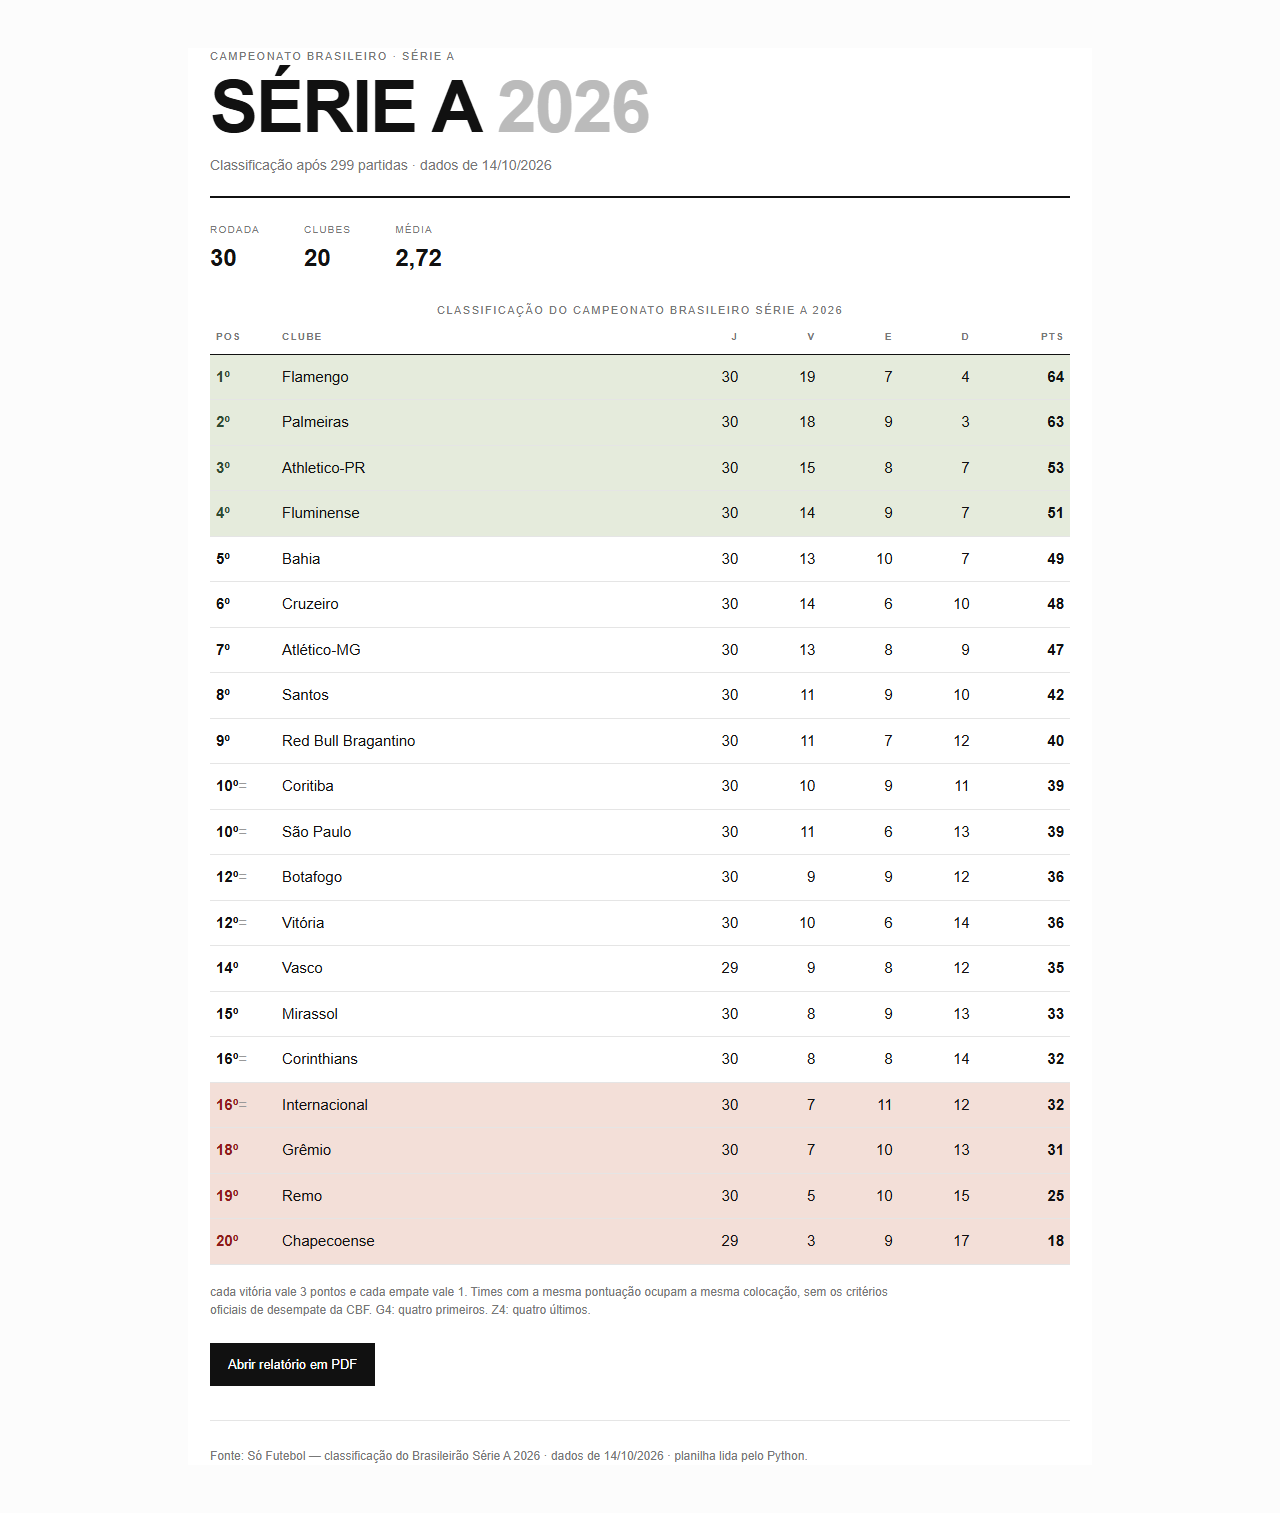
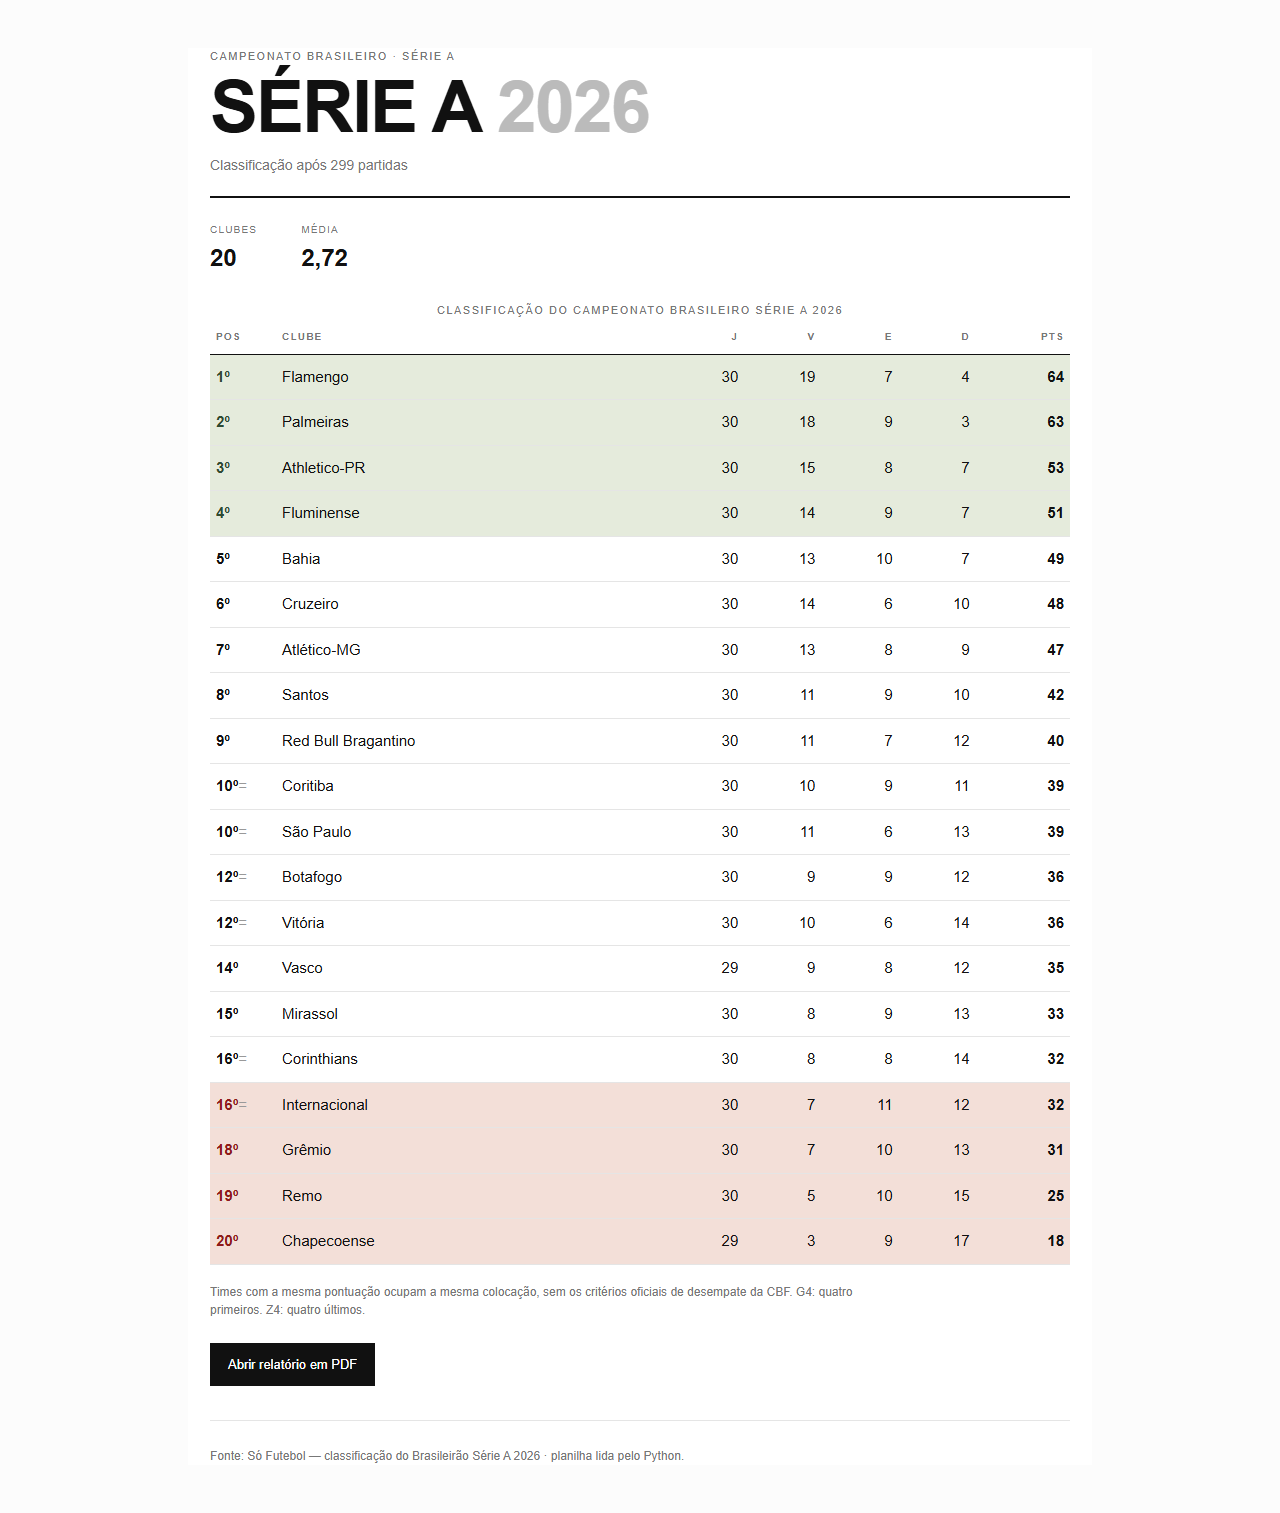
POOI 4bi: remove parsing de data e rodada

Changed region(s): [[0.1562, 0.8387, 0.6875, 0.8698], [0.2188, 0.1553, 0.2812, 0.1864], [0.3125, 0.1553, 0.3438, 0.1864]]

diff --git a/POOI/4bi/projeto/projeto.py b/POOI/4bi/projeto/projeto.py
@@ -21,28 +21,6 @@ from reportlab.pdfgen import canvas
 # 1) LEITURA DA PLANILHA E CÁLCULO
 # ===========================================================================
 
-def sem_acento(texto):
-    """Remove acentos para comparar cabeçalhos e nomes."""
-    texto = str(texto)
-    trocas = [
-        ('á', 'a'), ('à', 'a'), ('â', 'a'), ('ã', 'a'), ('ä', 'a'),
-        ('é', 'e'), ('è', 'e'), ('ê', 'e'), ('ë', 'e'),
-        ('í', 'i'), ('ì', 'i'), ('î', 'i'), ('ï', 'i'),
-        ('ó', 'o'), ('ò', 'o'), ('ô', 'o'), ('õ', 'o'), ('ö', 'o'),
-        ('ú', 'u'), ('ù', 'u'), ('û', 'u'), ('ü', 'u'),
-        ('ç', 'c'), ('ñ', 'n'),
-        ('Á', 'A'), ('À', 'A'), ('Â', 'A'), ('Ã', 'A'), ('Ä', 'A'),
-        ('É', 'E'), ('È', 'E'), ('Ê', 'E'), ('Ë', 'E'),
-        ('Í', 'I'), ('Ì', 'I'), ('Î', 'I'), ('Ï', 'I'),
-        ('Ó', 'O'), ('Ò', 'O'), ('Ô', 'O'), ('Õ', 'O'), ('Ö', 'O'),
-        ('Ú', 'U'), ('Ù', 'U'), ('Û', 'U'), ('Ü', 'U'),
-        ('Ç', 'C'), ('Ñ', 'N'),
-    ]
-    for antigo, novo in trocas:
-        texto = texto.replace(antigo, novo)
-    return texto
-
-
 def vazio(valor):
     """True quando a célula está vazia."""
     texto = str(valor).strip()
@@ -66,35 +44,6 @@ def numero(valor):
         return 0
 
 
-def pegar_data(texto):
-    """Procura uma data dd/mm/aaaa dentro de um texto."""
-    palavras = str(texto).split()
-    for palavra in palavras:
-        palavra = palavra.replace('.', '').replace(',', '').replace(';', '').replace(':', '').replace('(', '').replace(')', '').replace('[', '').replace(']', '')
-        if len(palavra) == 10 and palavra[2] == '/' and palavra[5] == '/':
-            if palavra[0:2].isnumeric() and palavra[3:5].isnumeric() and palavra[6:10].isnumeric():
-                return palavra
-    return ''
-
-
-def pegar_rodada(texto):
-    """Procura 'rodada 30' dentro de um texto."""
-    texto = sem_acento(str(texto)).upper()
-    posicao = texto.find('RODADA')
-    if posicao == -1:
-        return 0
-    i = posicao + 6
-    while i < len(texto) and not texto[i].isnumeric():
-        i += 1
-    numero_texto = ''
-    while i < len(texto) and texto[i].isnumeric():
-        numero_texto += texto[i]
-        i += 1
-    if numero_texto != '':
-        return int(numero_texto)
-    return 0
-
-
 def ler_planilha(caminho):
     """Lê o .xlsx e devolve os dados da classificação."""
     try:
@@ -116,7 +65,7 @@ def ler_planilha(caminho):
             normalizados = []
             for valor in valores:
                 if not vazio(valor):
-                    normalizados.append(sem_acento(valor).upper().strip())
+                    normalizados.append(str(valor).upper().strip())
 
             tem_time = False
             tem_jogos = False
@@ -136,16 +85,16 @@ def ler_planilha(caminho):
         colunas = {'time': -1, 'jogos': -1, 'vitorias': -1, 'empates': -1, 'derrotas': -1}
         for i in range(len(tabela.columns)):
             valor = tabela.iloc[linha_cabecalho, i]
-            nome = sem_acento(valor).upper().strip()
+            nome = str(valor).upper().strip()
             if 'TIME' in nome and colunas['time'] == -1:
                 colunas['time'] = i
             if 'JOGOS' in nome and colunas['jogos'] == -1:
                 colunas['jogos'] = i
-            if 'VITORIA' in nome and colunas['vitorias'] == -1:
+            if 'VIT' in nome and colunas['vitorias'] == -1:
                 colunas['vitorias'] = i
-            if 'EMPATE' in nome and colunas['empates'] == -1:
+            if 'EMP' in nome and colunas['empates'] == -1:
                 colunas['empates'] = i
-            if 'DERROTA' in nome and colunas['derrotas'] == -1:
+            if 'DER' in nome and colunas['derrotas'] == -1:
                 colunas['derrotas'] = i
 
         if colunas['time'] == -1:
@@ -166,12 +115,6 @@ def ler_planilha(caminho):
         else:
             titulo = 'CAMPEONATO BRASILEIRO'
 
-        consulta = ''
-        for texto in textos_acima:
-            if 'DADOS' in sem_acento(texto).upper():
-                consulta = texto
-                break
-
         times = []
         linhas_vazias = 0
         for i in range(linha_cabecalho + 1, len(tabela)):
@@ -187,7 +130,7 @@ def ler_planilha(caminho):
             # A linha de fonte/observação pode estar em qualquer coluna.
             linha_tem_rotulo = False
             for j in range(len(tabela.columns)):
-                texto_linha = sem_acento(tabela.iloc[i, j]).upper()
+                texto_linha = str(tabela.iloc[i, j]).upper()
                 if 'FONTE' in texto_linha:
                     linha_tem_rotulo = True
                 if 'OBSERVACAO' in texto_linha:
@@ -228,7 +171,7 @@ def ler_planilha(caminho):
         for i in range(linha_cabecalho + 1, len(tabela)):
             for j in range(len(tabela.columns)):
                 valor = tabela.iloc[i, j]
-                if 'FONTE' in sem_acento(valor).upper():
+                if 'FONTE' in str(valor).upper():
                     for k in range(j + 1, len(tabela.columns)):
                         proximo = tabela.iloc[i, k]
                         if not vazio(proximo):
@@ -238,17 +181,10 @@ def ler_planilha(caminho):
             if fonte != '':
                 break
 
-        data_consulta = pegar_data(consulta)
-        if data_consulta == '':
-            data_consulta = pegar_data(titulo)
-
         dados = {
             'arquivo': caminho,
             'aba': nome_aba,
             'titulo': titulo,
-            'consulta': consulta,
-            'data_consulta': data_consulta,
-            'rodada': pegar_rodada(consulta),
             'fonte': fonte,
             'times': times,
         }
@@ -278,7 +214,7 @@ def classificar(dados):
                 posicao = i
                 break
             if time['pontos'] == atual['pontos']:
-                if sem_acento(time['time']).upper() < sem_acento(atual['time']).upper():
+                if time['time'].upper() < atual['time'].upper():
                     posicao = i
                     break
         ordenados.insert(posicao, time)
@@ -349,8 +285,6 @@ def imprimir_classificacao(dados):
     """Mostra a classificação no terminal."""
     print()
     print(dados['titulo'])
-    if dados['consulta']:
-        print(dados['consulta'])
     print()
     print('POS  TIME                   J    V    E    D   PTS   APROV.')
     print('-' * 66)
@@ -413,17 +347,9 @@ def layout_07_minimalista(dados, caminho):
     texto(pdf, 48, 768, 'SÉRIE A', 40, 'Helvetica-Bold', tinta)
     texto(pdf, 48, 726, '2026', 40, 'Helvetica', '#B9B9B9')
 
-    data = dados['data_consulta']
-    if data == '':
-        data = 'data não informada'
-    texto(pdf, 50, 704, f'Classificação após {dados["total_partidas"]} partidas  ·  dados de {data}', 7.5, 'Helvetica', cinza)
+    texto(pdf, 50, 704, f'Classificação após {dados["total_partidas"]} partidas', 7.5, 'Helvetica', cinza)
 
-    if dados['rodada'] == 0:
-        rodada = '-'
-    else:
-        rodada = str(dados['rodada'])
     metadados = [
-        ('RODADA', rodada),
         ('CLUBES', str(dados['total_times'])),
         ('MÉDIA', f'{dados["media_pontos"]:.2f}'.replace('.', ',')),
     ]
@@ -560,15 +486,9 @@ def montar_linhas(dados):
 
 def gerar_pagina(dados, caminho_html):
     """Cria uma página simples, no mesmo estilo do PDF."""
-    data = dados['data_consulta']
-    if data == '':
-        data = 'data não informada'
     fonte = dados['fonte']
     if fonte == '':
         fonte = 'Planilha da CBF'
-    rodada = dados['rodada']
-    if rodada == 0:
-        rodada = '-'
 
     html = f'''<!DOCTYPE html>
 <html lang="pt-BR">
@@ -619,11 +539,10 @@ def gerar_pagina(dados, caminho_html):
   <header class="cabecalho">
     <div class="kicker">Campeonato Brasileiro · Série A</div>
     <h1>SÉRIE A <span>2026</span></h1>
-    <p class="sub">Classificação após {dados['total_partidas']} partidas · dados de {escapar(data)}</p>
+    <p class="sub">Classificação após {dados['total_partidas']} partidas</p>
   </header>
 
   <div class="meta">
-    <div>Rodada<strong>{rodada}</strong></div>
     <div>Clubes<strong>{dados['total_times']}</strong></div>
     <div>Média<strong>{f'{dados["media_pontos"]:.2f}'.replace('.', ',')}</strong></div>
   </div>
@@ -652,7 +571,7 @@ def gerar_pagina(dados, caminho_html):
   </div>
 
   <footer>
-    <p>Fonte: {escapar(fonte)} · dados de {escapar(data)} · planilha lida pelo Python.</p>
+    <p>Fonte: {escapar(fonte)} · planilha lida pelo Python.</p>
   </footer>
 </body>
 </html>

diff --git a/POOI/4bi/projeto/README.md b/POOI/4bi/projeto/README.md
@@ -67,7 +67,7 @@ Corinthians e Internacional terminam com **32 pontos** e, pela regra do projeto,
 
 Arquivo: **`classificacao.html`**
 
-- Cabeçalho editorial igual ao do PDF: “SÉRIE A 2026”, rodada, clubes e média.
+- Cabeçalho editorial igual ao do PDF: “SÉRIE A 2026”, clubes e média.
 - Tabela com posição, clube, jogos, vitórias, empates, derrotas e pontos.
 - G4 com fundo verde-claro; Z4 com fundo vermelho-claro.
 - Empates na pontuação marcados com `=`.
